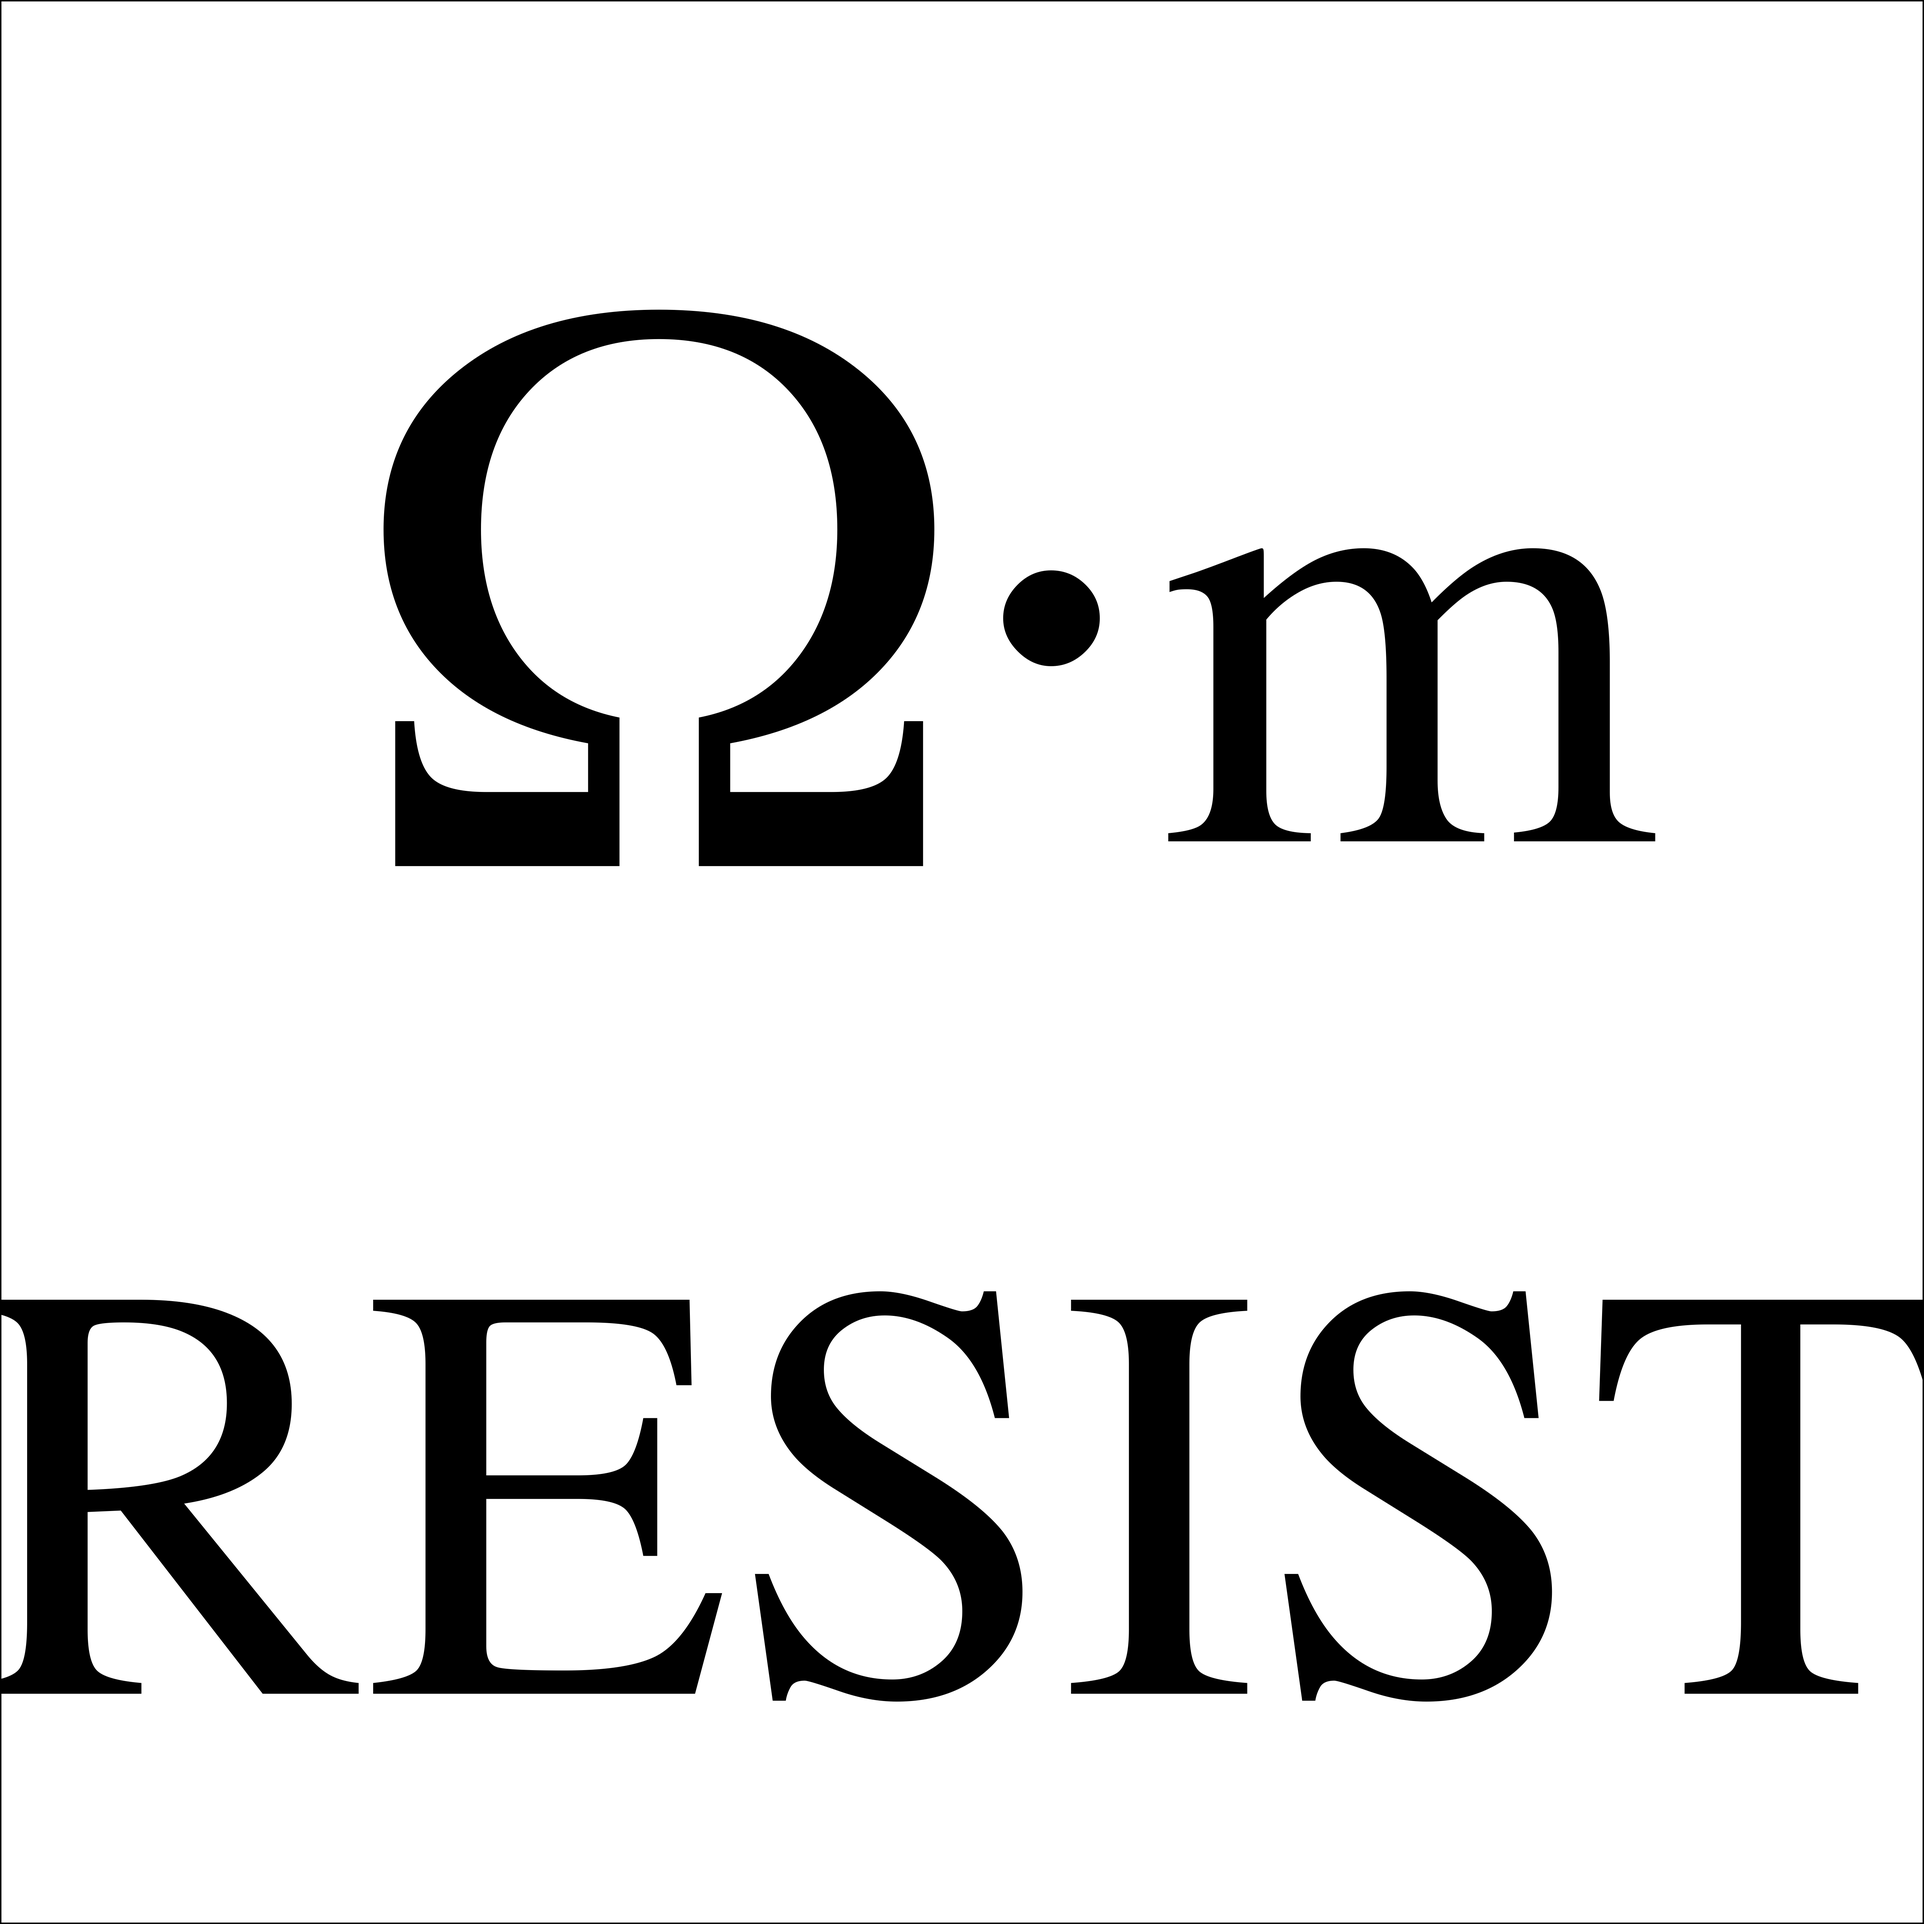
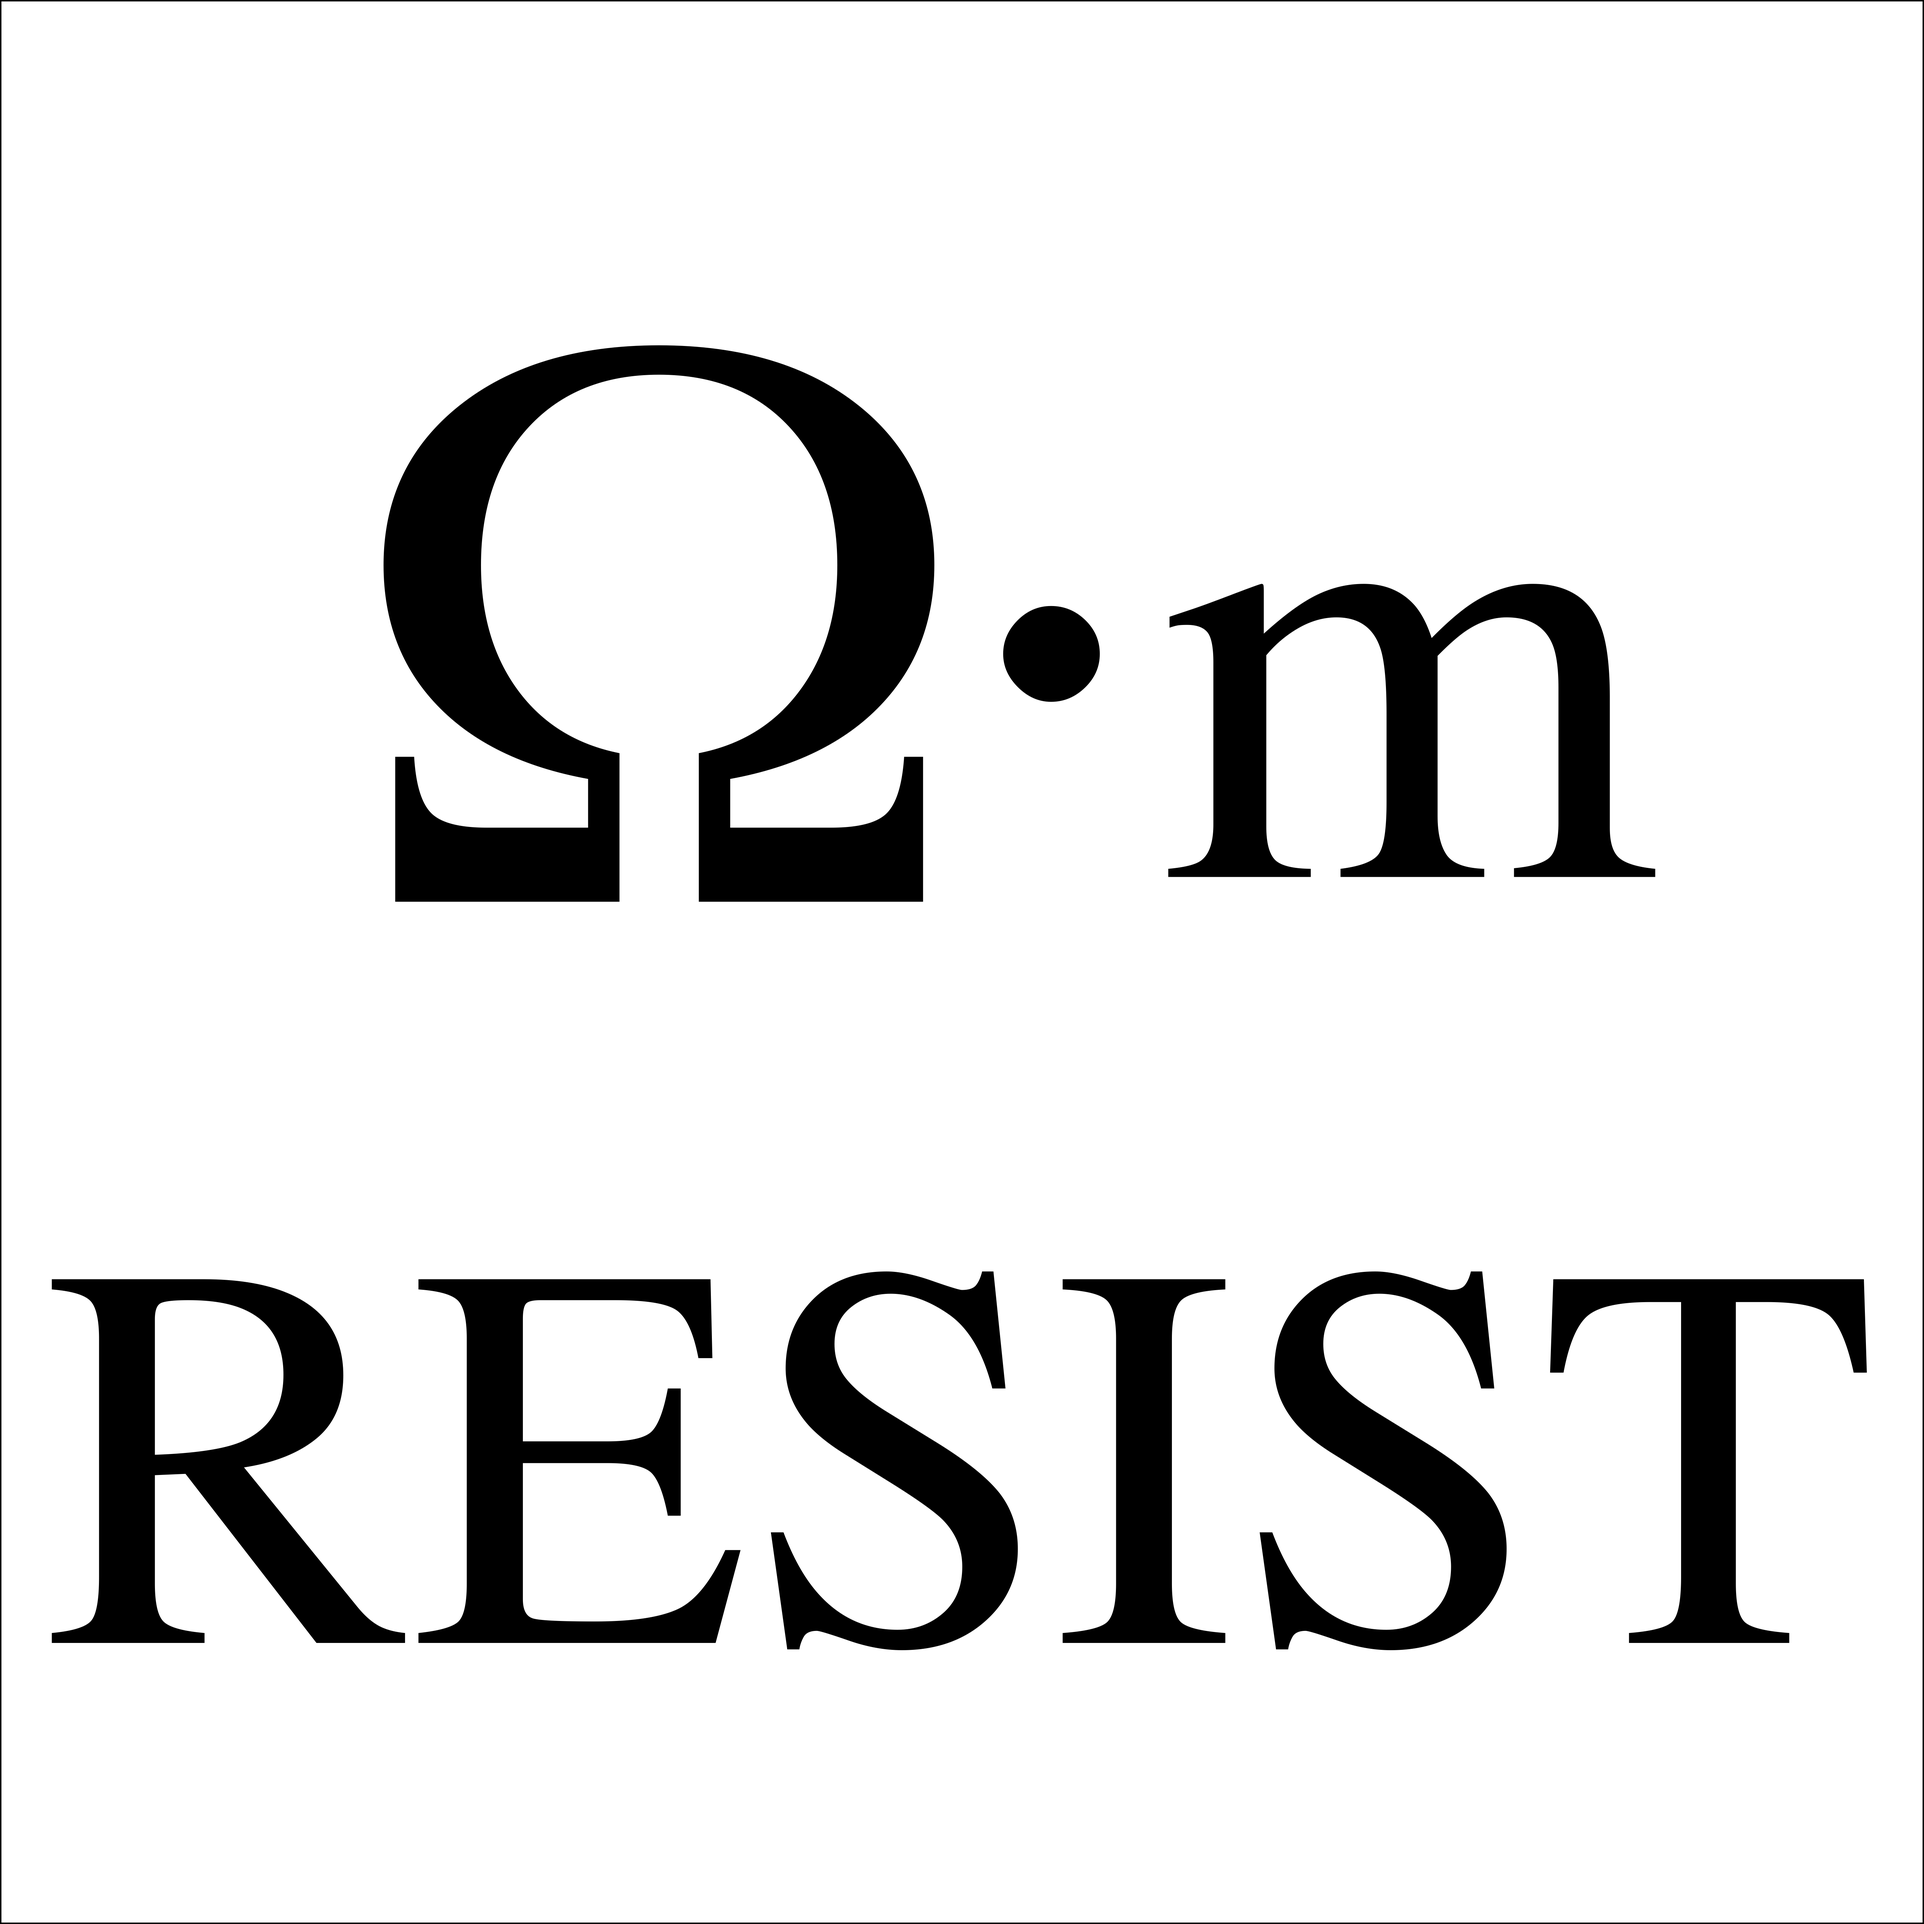
made resist a bit smaller

diff --git a/_posts/2017-01-30-ScienceMarch.md b/_posts/2017-01-30-ScienceMarch.md
@@ -65,10 +65,10 @@ After I made this I found out that not only is this the symbol for the [well-kno
 # RESIST sign (with ohm meter symbol)
 par(mar = c(0,0,0,0), family="serif", bg="white")
 plot(c(0, 1), c(0, 1), ann = F, bty = 'o', type = 'n', xaxt = 'n', yaxt = 'n')
-text(.33,.71, expression(Omega), cex=18)
-text(.55,.63, expression(paste(""%.%"")), cex=18)
-text(.75,.65, "m", cex=14)
-text(.5,.2, "RESIST", cex=13)
+text(.33,.69, expression(Omega), cex=18)
+text(.55,.61, expression(paste(""%.%"")), cex=18)
+text(.75,.63, "m", cex=14)
+text(.5,.22, "RESIST", cex=12)
 {% endhighlight %}
 
 <img src="/figures/unnamed-chunk-3-1.png" title="plot of chunk unnamed-chunk-3" alt="plot of chunk unnamed-chunk-3" width="600px" style="display: block; margin: auto;" />
